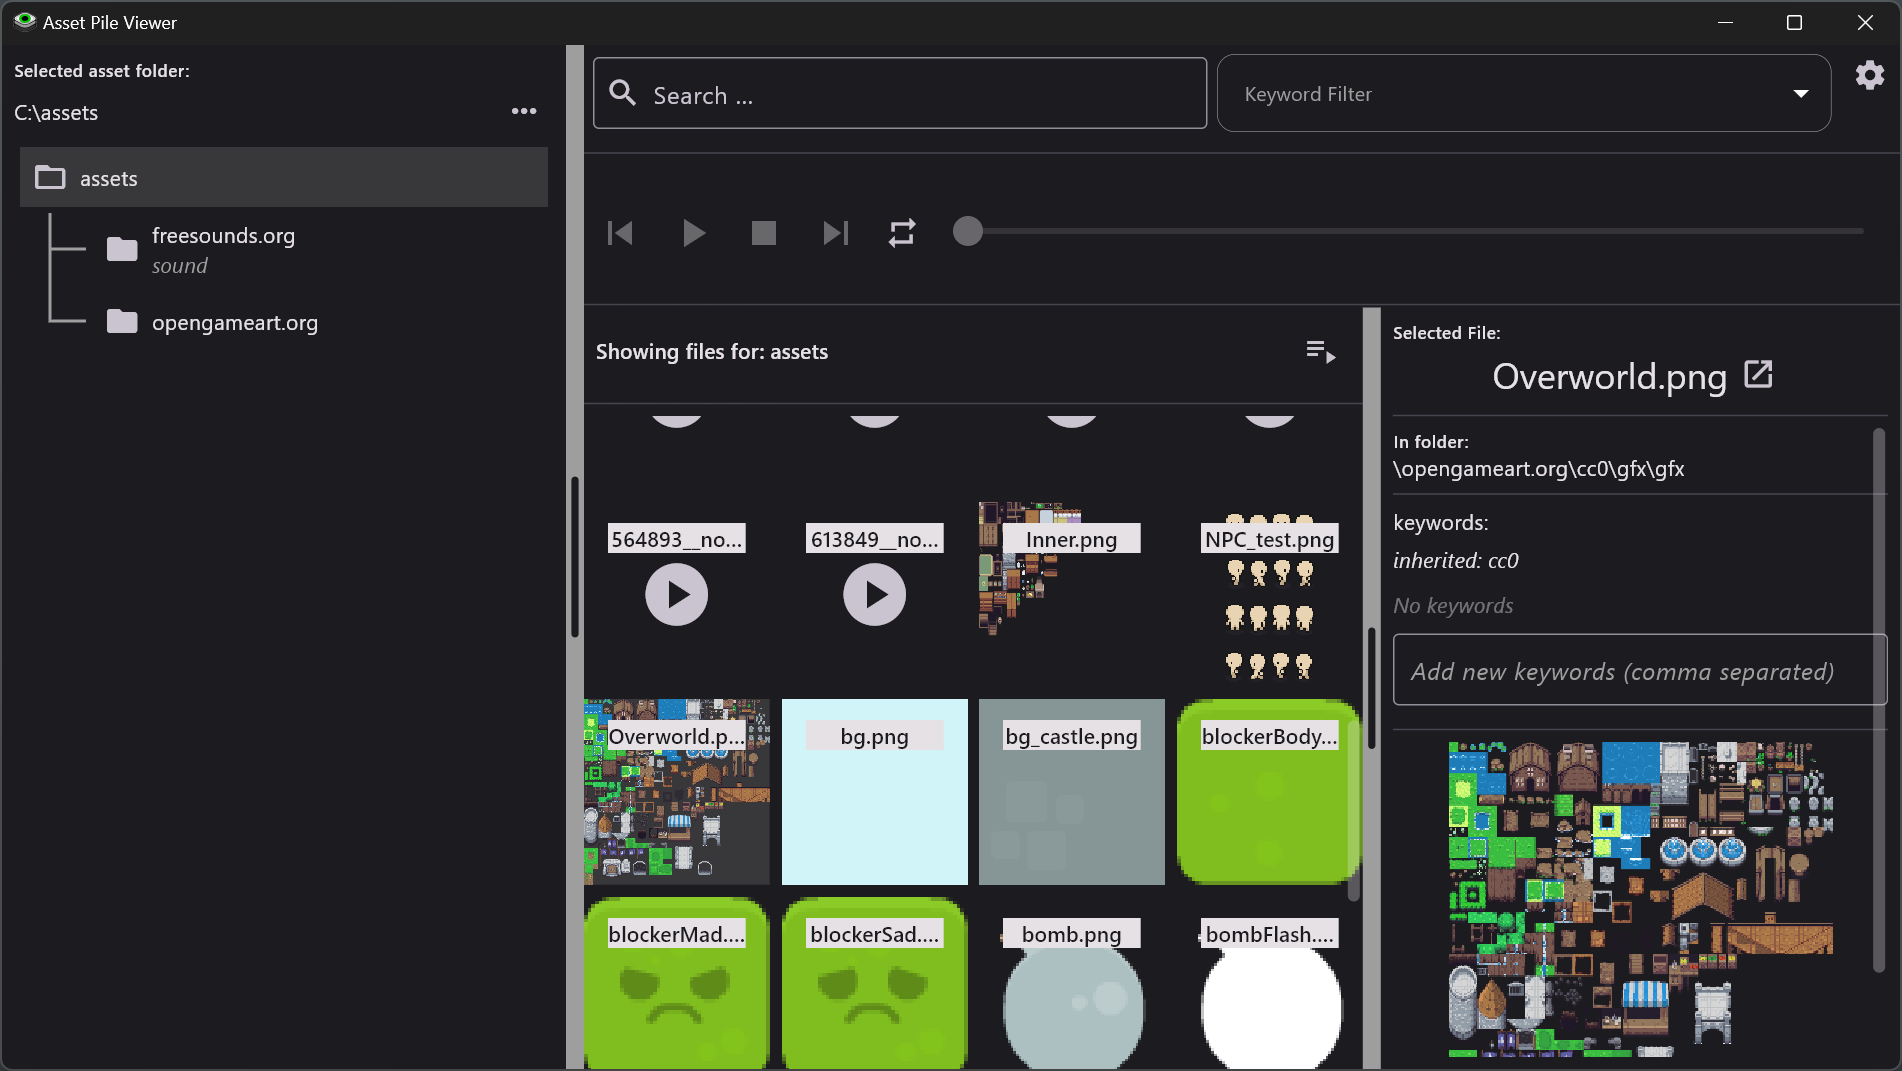
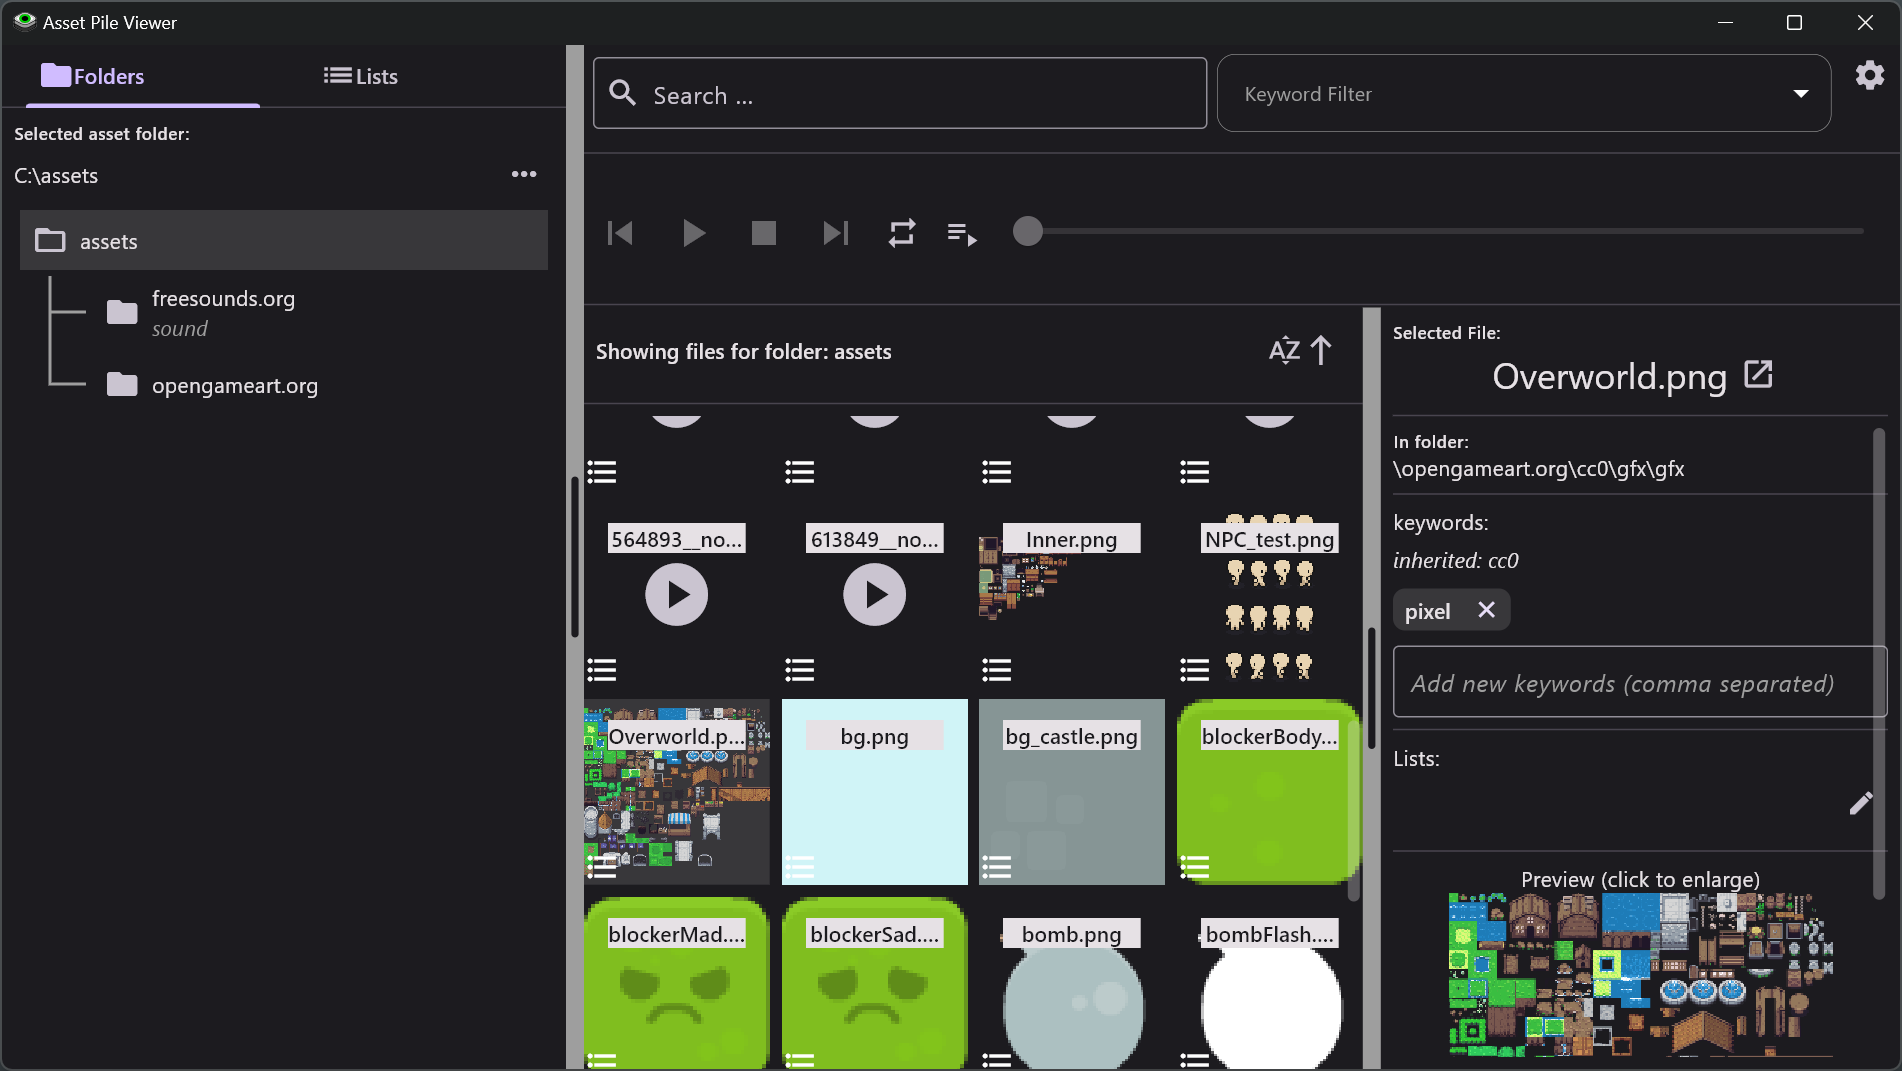
update readme

diff --git a/README.md b/README.md
@@ -7,9 +7,10 @@ Features include:
   * Previewing all supported assets under a selected folder (see supported file formats below)
   * Adding keywords to folders and files
   * Filter assets by file name and keywords
+  * Create lists and add files to them.  This is useful for collecting candidates for a project.  The files can also be copied to a folder for easy collection.
   * Light and dark mode
   * Supports Windows and Linux
-
+<br>
 <p align="center">
 <img src="readme_images/screenshot.png" />
 </p>
@@ -28,14 +29,12 @@ There are issues with full support for the following file formats.
 
 ## Feature Road Map
 
-  * Lists - Create lists and add asset files to them.  Useful for collecting  candidates for a project.
   * Notes - Adding a note to a file.
   * Rating - Add a rating to a file or folder.  Allow filtering on rating.
   * List view - Support a list view and allow toggling between grid and list views.
-  * Sorting - Allow user to change sorting.
 
 ## Features, Issues
-Found a bug or want a new feature?  Please create a new issue [on the Issues tab](https://github.com/jhlothamer/asset_pile_viewer/issues).
+Found a bug, want a new feature or just want a change?  Please create a new issue [on the Issues tab](https://github.com/jhlothamer/asset_pile_viewer/issues).
 
 
 ## Support
